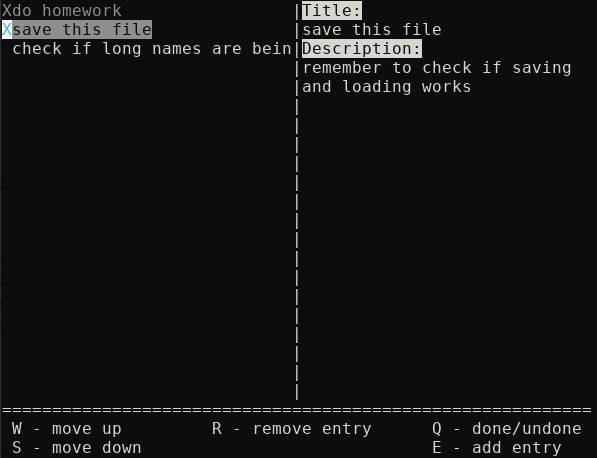
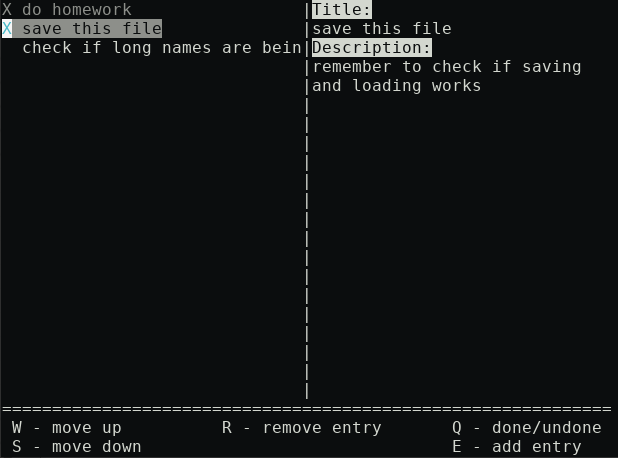
Add files via upload

Changed region(s): [[0.0, 0.0, 0.9648, 0.8559], [0.0, 0.8865, 0.995, 1.0]]

diff --git a/main.cpp b/main.cpp
@@ -276,7 +276,7 @@ int drawWindow(state * app)
 			}
 			move(i-app->scroll, 1);
 			if(i == app->cursor) attron(A_REVERSE);
-			printw("%s", wrapString(app->tasks[i].name, app->maxx/2).c_str());
+			printw(" %s", wrapString(app->tasks[i].name, app->maxx/2-1).c_str());
 			attroff(A_REVERSE);
 			attroff(A_DIM);
 			
